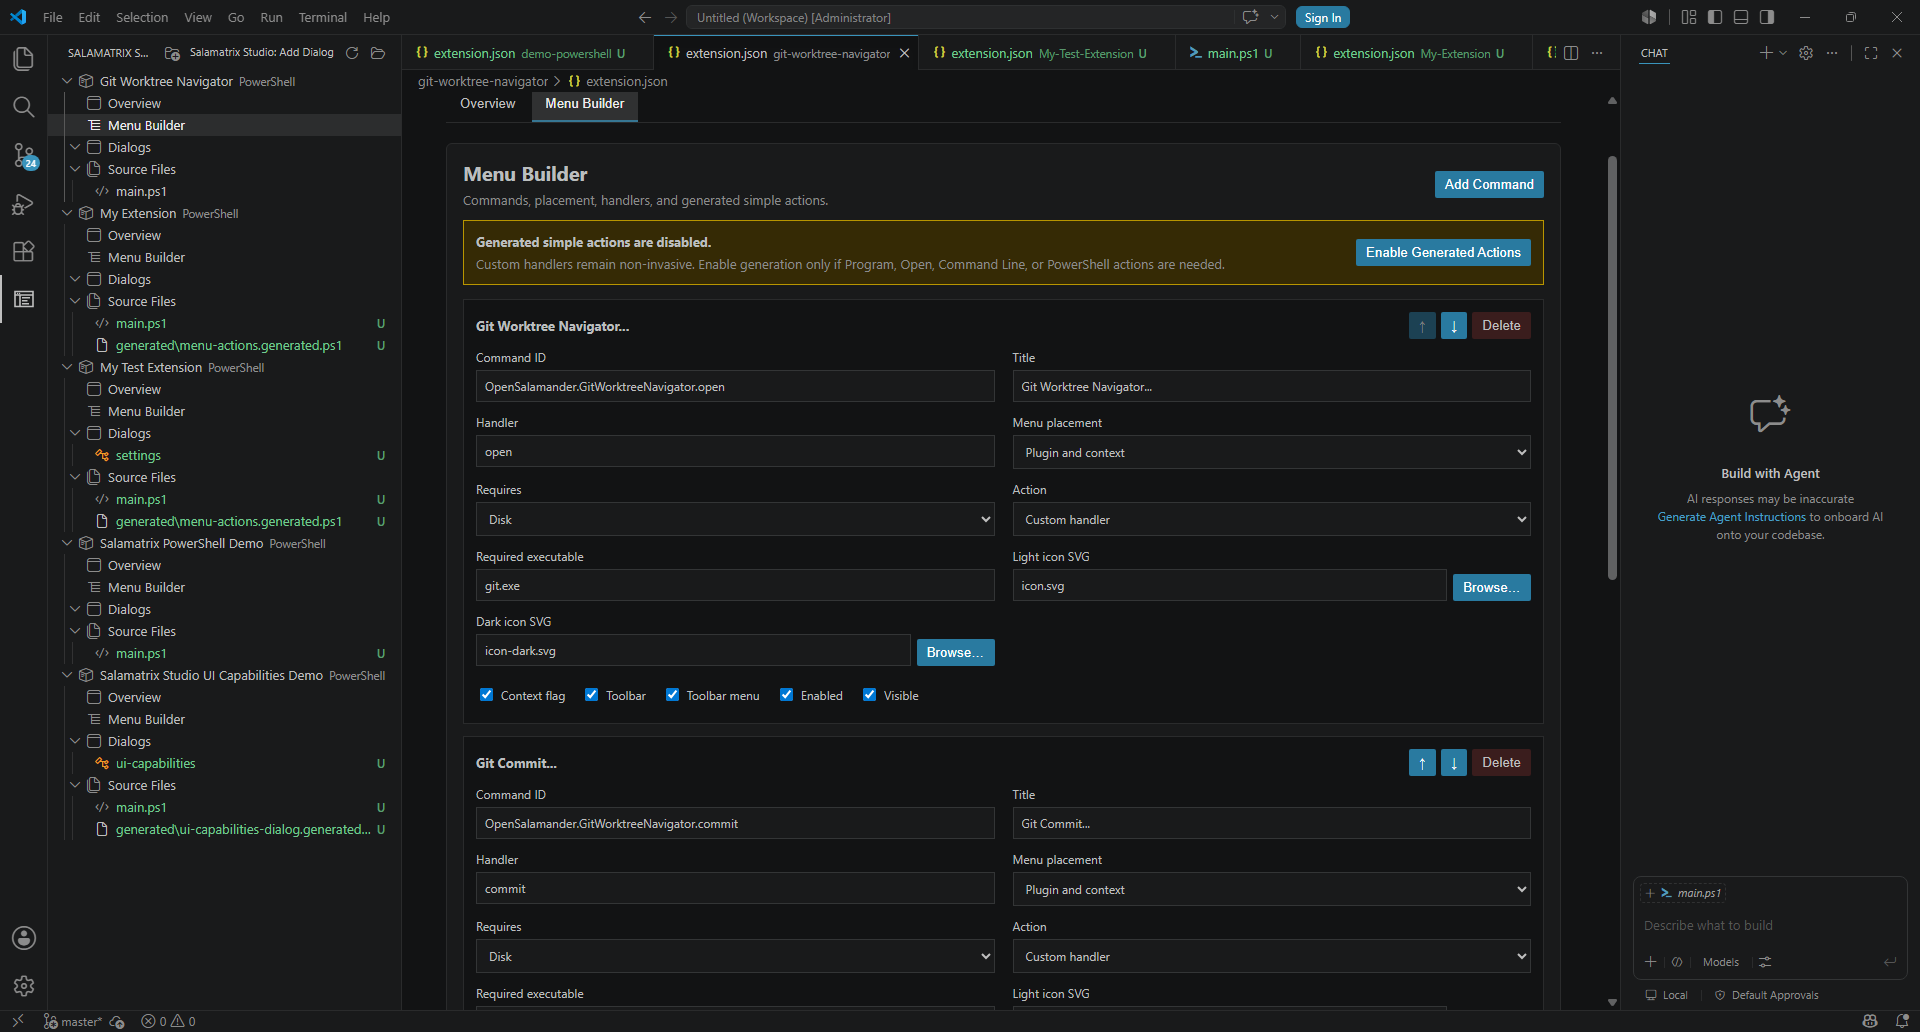
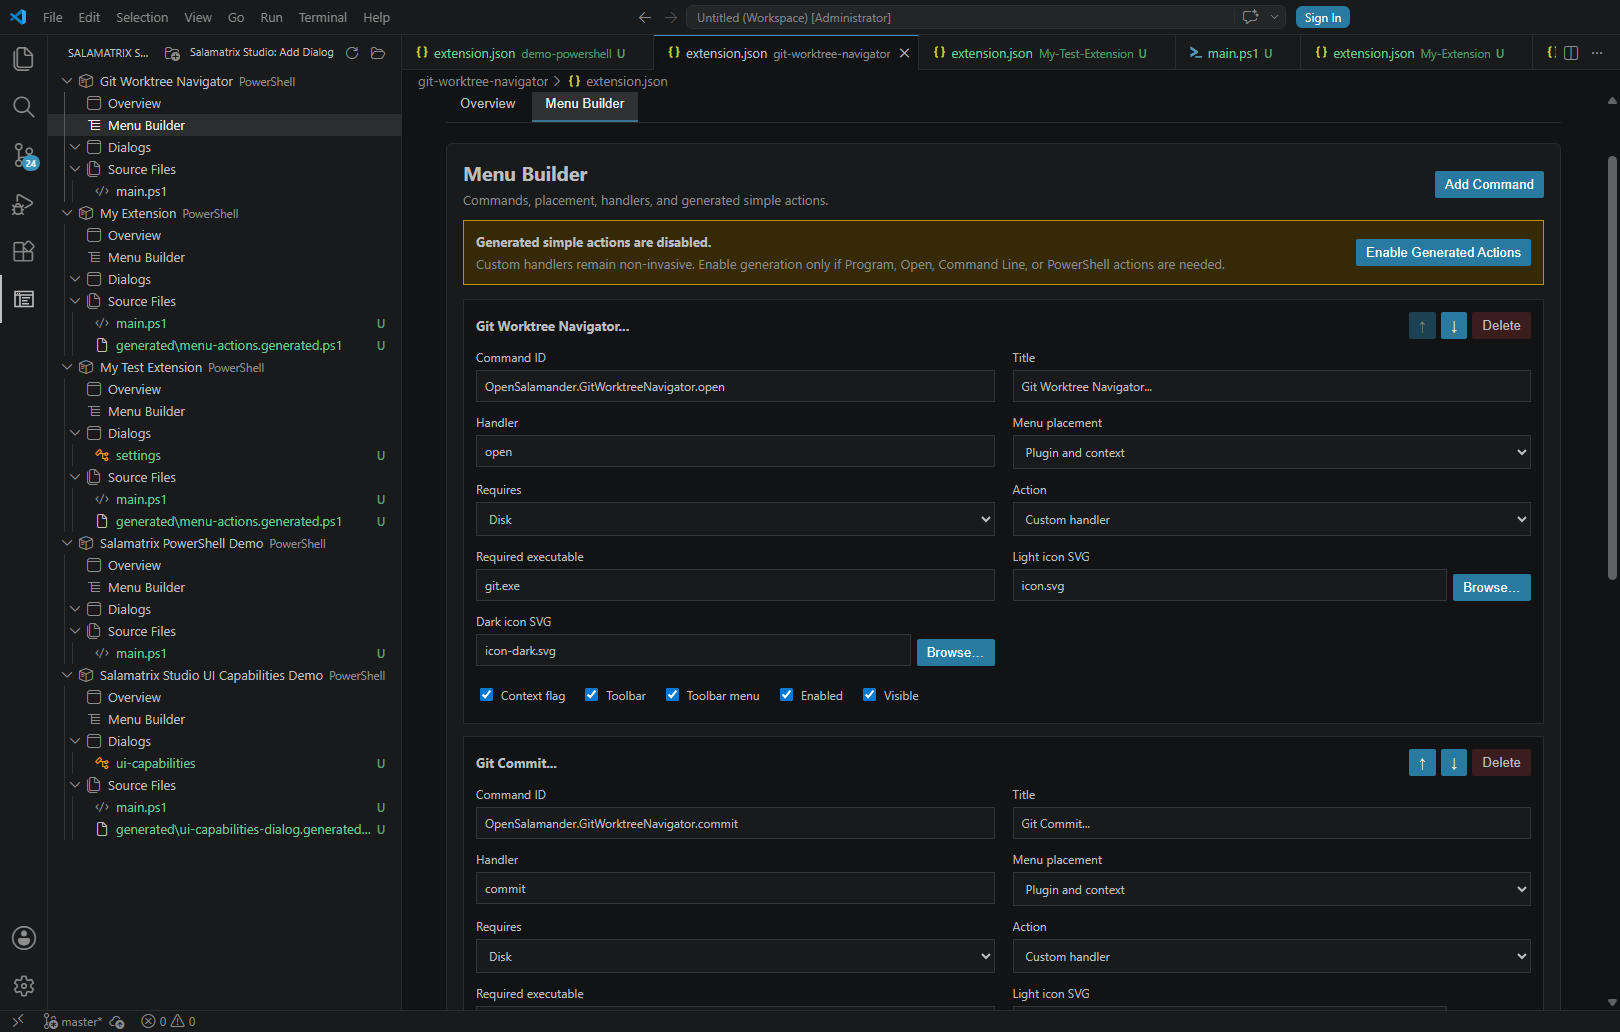
web

diff --git a/salamatrix/studio.html b/salamatrix/studio.html
@@ -46,7 +46,7 @@
         <p class="hero-actions"><a aria="button" href="https://marketplace.visualstudio.com/items?itemName=KRtekTM.salamatrix-studio">Get Salamatrix Studio</a></p>
       </div>
       <div class="hero-panel__visual">
-        <img src="../images/salamatrix-studio_vscode.png" alt="Salamatrix Studio open in Visual Studio Code with the project explorer and dialog designer">
+        <img src="../images/salamatrix-studio_vscode1.png" alt="Salamatrix Studio open in Visual Studio Code with the project explorer and dialog designer">
         <span class="compatibility-badge"><img src="../images/vscode_logo.png" alt="Visual Studio Code"></span>
       </div>
     </section>
@@ -77,10 +77,10 @@
     <section id="screenshots" aria-labelledby="screenshots-title">
       <h2 id="screenshots-title">A closer look at the Studio workspace</h2>
       <div class="studio-gallery">
-        <figure class="studio-shot studio-shot--wide"><img src="../images/salamatrix-studio_vscode1.png" alt="Visual Studio Code with Salamatrix Studio Activity Bar and project explorer"><figcaption><strong>One workspace for the whole extension</strong>The Studio view groups project overview, menu design, dialogs, and source files in the Activity Bar.</figcaption></figure>
+        <figure class="studio-shot studio-shot--wide"><img src="../images/salamatrix-studio_vscode2.png" alt="Visual Studio Code with Salamatrix Studio Activity Bar and project explorer"><figcaption><strong>One workspace for the whole extension</strong>The Studio view groups project overview, menu design, dialogs, and source files in the Activity Bar.</figcaption></figure>
         <figure class="studio-shot"><img src="../images/salamatrix-studio_menubuild1.png" alt="Salamatrix Studio Menu Builder showing menu command settings"><figcaption><strong>Menu Builder</strong>Define commands and actions without hiding the underlying project files.</figcaption></figure>
         <figure class="studio-shot"><img src="../images/salamatrix-studio_menubuild2.png" alt="Salamatrix Studio Menu Builder previewing plugin and toolbar placements"><figcaption><strong>Placement preview</strong>Review plugin, context, and toolbar placement with theme-aware icons.</figcaption></figure>
-        <figure class="studio-shot studio-shot--wide"><img src="../images/salamatrix-studio_dialogbuild.png" alt="Salamatrix Studio visual Salamatrix UI dialog designer"><figcaption><strong>Native Salamatrix.UI dialog design</strong>Arrange controls visually, edit their properties, validate the document, and preview the native result.</figcaption></figure>
+        <figure class="studio-shot studio-shot--wide"><img src="../images/salamatrix-studio_dialogbuild1.png" alt="Salamatrix Studio visual Salamatrix UI dialog designer"><figcaption><strong>Native Salamatrix.UI dialog design</strong>Arrange controls visually, edit their properties, validate the document, and preview the native result.</figcaption></figure>
       </div>
     </section>
 
